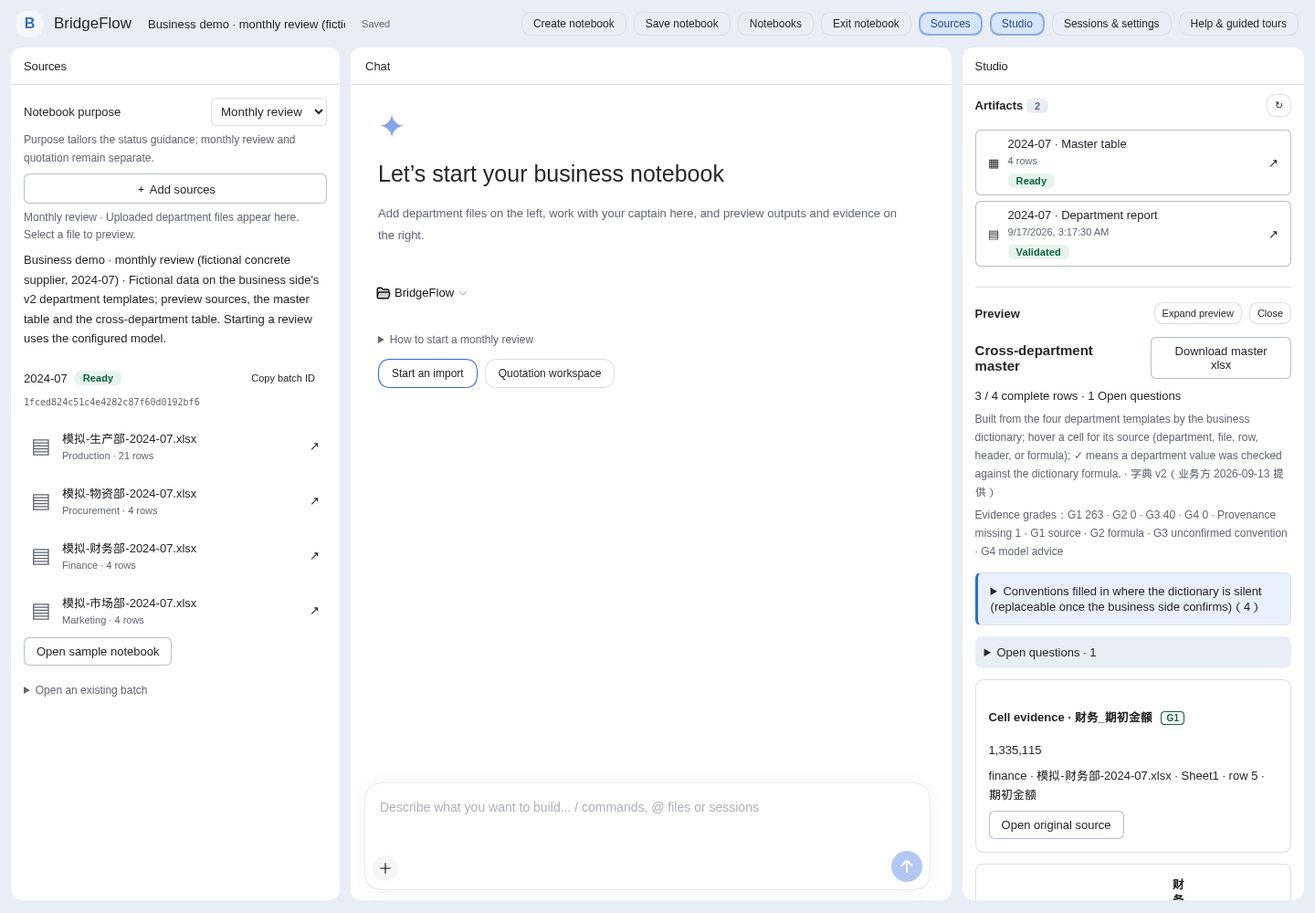
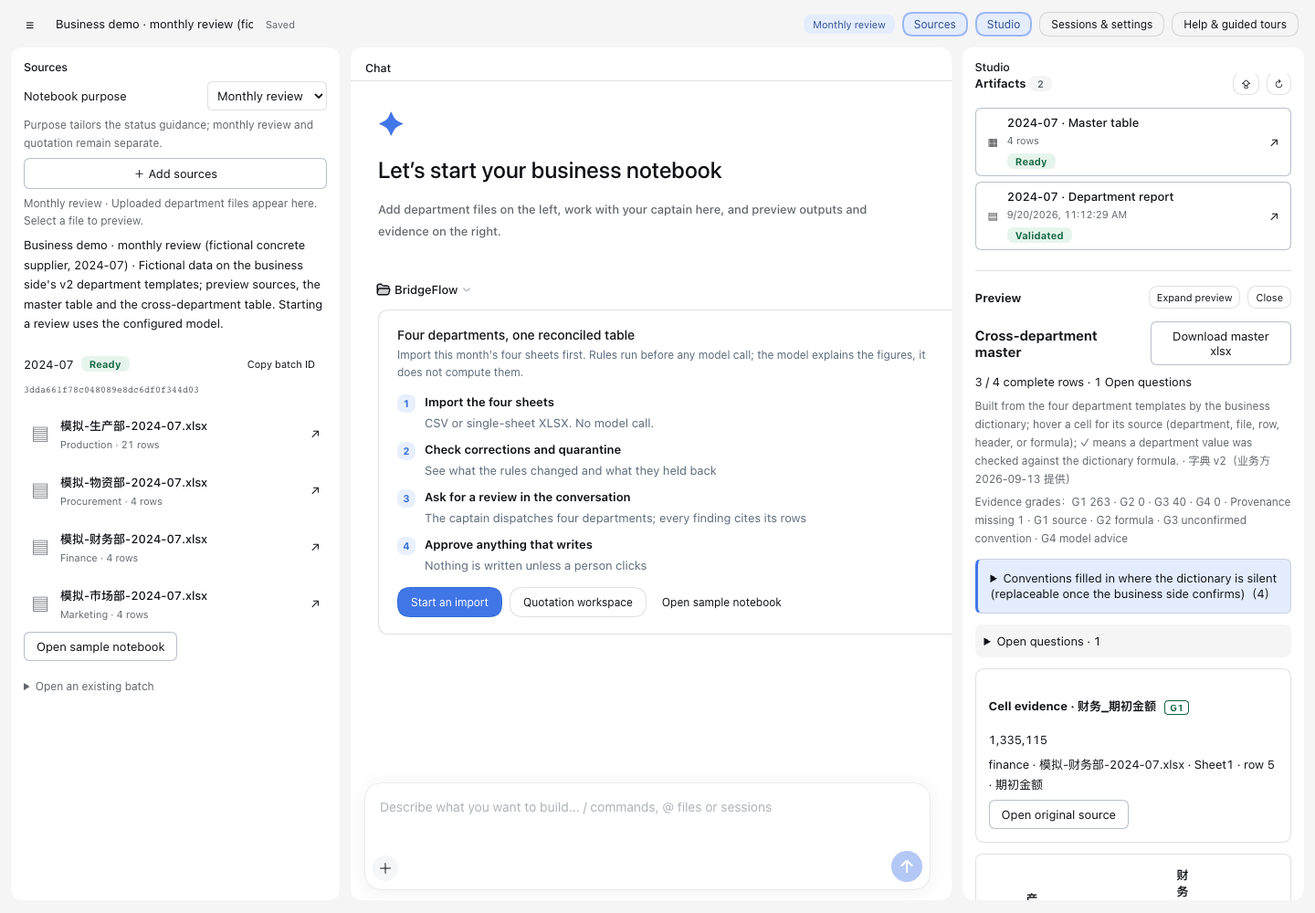
feat: refactor UI components and enhance self-check functionality with improved feedback

diff --git a/plugins/src/client/workspace.tsx b/plugins/src/client/workspace.tsx
@@ -1,17 +1,18 @@
 import { useEffect, useRef, useState, type FormEvent } from 'react'
 import { Failure } from './failure.tsx'
 import { BusinessReview, type Review } from './review.tsx'
-import { api, cellText, columnLabel, navigate, route, reviewRequest, startDiagnosis, startReview, useUI, type Summary } from './ui.ts'
+import { api, cellText, columnLabel, formatNumber, navigate, route, reviewRequest, startDiagnosis, startReview, useUI, type Summary } from './ui.ts'
 export const departments = ['production', 'procurement', 'finance', 'marketing'] as const
 export const sections = ['master', 'corrections', 'mappings', 'columns', 'quarantine', 'review'] as const
 export function Chip({ status }: { status: string }) { const { t } = useUI(); return <span className="bf-chip" data-status={status}>{t(status.replaceAll('-', '_'))}</span> }
-export type Limits = { maxUploadBytes: number; maxRequestBytes: number; noteLimit: number; decisionTimeoutMs: number }
+export type Limits = { maxUploadBytes: number; maxBatchRows: number; maxRequestBytes: number; noteLimit: number; decisionTimeoutMs: number }
 type Finding = { check: string; message: string; row: number | null; column: string; count: number }
 type CheckReport = { department: string; filename: string; must_fix: Finding[]; review: Finding[]; passed: string[]; accepts: boolean }
 export function ImportForm({ onSaved }: { onSaved: (batch: Summary) => void }) {
-  const { t } = useUI()
+  const { t, language } = useUI()
   const [limits, setLimits] = useState<Limits | null>(null)
   const [busy, setBusy] = useState(false), [error, setError] = useState<unknown>(''), [reports, setReports] = useState<CheckReport[]>([])
+  const [checking, setChecking] = useState('')
   const formRef = useRef<HTMLFormElement>(null)
   useEffect(() => { const controller = new AbortController(); void api<Limits>('/config', { signal: controller.signal }).then(setLimits).catch(e => { if (!controller.signal.aborted) setError(e) }); return () => controller.abort() }, [])
   async function selfCheck() {
@@ -20,19 +21,23 @@ export function ImportForm({ onSaved }: { onSaved: (batch: Summary) => void }) {
     setError(''); setReports([])
     if (!form.get('period')) { setError(t('selfCheckNeedsPeriod')); return }
     setBusy(true)
+    let checked = 0
     try {
-      const found: CheckReport[] = []
       for (const name of departments) {
         const file = form.get(name)
         if (!(file instanceof File) || !file.size) continue
         const body = new FormData()
         body.set('period', String(form.get('period'))); body.set('department', name); body.set('file', file)
         body.set('sheet', String(form.get(`${name}-sheet`) ?? '')); body.set('header_row', String(form.get(`${name}-header`) ?? ''))
-        found.push(await api<CheckReport>('/batches/self-check', { method: 'POST', body }))
+        setChecking(name)
+        // Each report lands as it arrives. Collecting them and assigning once meant a
+        // failure on the third file discarded the first two — four files reading as
+        // four failures is exactly what per-department reporting exists to prevent.
+        const report = await api<CheckReport>('/batches/self-check', { method: 'POST', body })
+        checked++; setReports(previous => [...previous, report])
       }
-      if (!found.length) setError(t('invalidUpload'))
-      setReports(found)
-    } catch (e) { setError(e) } finally { setBusy(false) }
+      if (!checked) setError(t('invalidUpload'))
+    } catch (e) { setError(e) } finally { setBusy(false); setChecking('') }
   }
   async function upload(event: FormEvent<HTMLFormElement>) {
     event.preventDefault(); setError('')
@@ -52,30 +57,89 @@ export function ImportForm({ onSaved }: { onSaved: (batch: Summary) => void }) {
     try { onSaved(await api<Summary>('/batches', { method: 'POST', body })) }
     catch (e) { setError(e) } finally { setBusy(false) }
   }
-  return <form ref={formRef} onSubmit={upload} className="bf-steps">
-    <div className="bf-step">
-      <h3>{t('stepMonth')}</h3>
-      <input type="month" name="period" aria-label={t('month')} required />
+  return <>
+    <form ref={formRef} onSubmit={upload} className="bf-steps">
+      <div className="bf-step">
+        <h3>{t('stepMonth')}</h3>
+        <input type="month" name="period" aria-label={t('month')} required />
+      </div>
+      <div className="bf-step">
+        <h3>{t('stepFiles')}</h3>
+        <p className="bf-hint">{t('stepFilesHint')} {t('uploadHelp')}</p>
+        <div className="bf-files">{departments.map(name => <FileRow key={name} name={name} />)}</div>
+      </div>
+      {/* I01 step 3: both ways forward on one row, the limits beside the button that
+          enforces them, and the self-check's own result directly underneath. The check
+          used to sit in step 2, which made "add the files" mean two different jobs. */}
+      <div className="bf-step">
+        <h3>{t('stepGo')}</h3>
+        <p className="bf-hint">{t('stepGoHint')}</p>
+        <Failure value={error}/>
+        <div className="bf-actions" style={{ marginBottom: 0 }}>
+          <button className="bf-primary" disabled={busy || !limits} type="submit">{t(busy ? 'busy' : 'import')}</button>
+          <button type="button" disabled={busy} onClick={() => void selfCheck()}>{t('selfCheck')}</button>
+          <span className="bf-hint">{limits
+            ? `${t('perUpload')} ${limits.maxUploadBytes / 1048576} MiB · ${t('perBatch')} ${formatNumber(limits.maxBatchRows, language)} ${t('rows')}`
+            : t('loading')}</span>
+        </div>
+        <p className="bf-hint" style={{ marginTop: 6 }}>{t('selfCheckHelp')}</p>
+      </div>
+    </form>
+    {/* `checking` is set only by self-check, so a plain import never opens this panel. */}
+    <SelfCheckResult reports={reports} checking={checking} />
+  </>
+}
+
+/**
+ * I03: what the same rules say about these files, without creating a batch.
+ *
+ * Grouped by what the reader has to do about it, not by which file it came from.
+ * "Must fix" and "worth checking" are two different jobs for the person holding the
+ * sheets; four per-department cards left them to do that sort by eye, with the review
+ * items folded behind a `<details>` each.
+ */
+function SelfCheckResult({ reports, checking }: { reports: CheckReport[]; checking: string }) {
+  const { t, language } = useUI()
+  const lines = (pick: (r: CheckReport) => Finding[]) => reports.flatMap(r => pick(r).map(f => ({ department: r.department, f })))
+  const mustFix = lines(r => r.must_fix), review = lines(r => r.review)
+  // Not a partition: a file can carry review items and still be submittable, and saying
+  // so is the difference the two buckets exist to draw. `accepts` is the backend's own
+  // word for "nothing here blocks the import", which is exactly the question.
+  const clean = reports.filter(r => r.accepts)
+  // `count` is the finding's own multiplicity: one "three unknown columns" finding is
+  // three things to look at, and a heading reading "1" would understate the work.
+  const weight = (items: typeof mustFix) => items.reduce((n, l) => n + Math.max(1, l.f.count), 0)
+  const line = ({ department, f }: { department: string; f: Finding }) => [
+    t(department),
+    f.row ? `${t('atRow')} ${f.row}${t('atRowSuffix')}` : '',
+    f.column && !f.message.startsWith(f.column) ? f.column : '',
+    f.message + (f.count > 1 ? ` ×${f.count}` : ''),
+  ].filter(Boolean).join(' · ')
+  if (!reports.length && !checking) return null
+  // One live region for the whole result, not one per bucket: three of them announce
+  // over each other, and the reader needs the three counts together anyway.
+  return <section className="bf-selfcheck" aria-label={t('selfCheckResult')} aria-live="polite">
+    <div className="bf-card-head">
+      <h3>{t('selfCheckResult')}</h3>
+      {/* The one thing a person needs to know before reading a word of it. */}
+      <span className="bf-chip">{t('noBatchCreated')}</span>
     </div>
-    <div className="bf-step">
-      <h3>{t('stepFiles')}</h3>
-      <p className="bf-hint">{t('stepFilesHint')} {t('uploadHelp')}</p>
-      <div className="bf-files">{departments.map(name => <FileRow key={name} name={name} />)}</div>
-      <p className="bf-hint">{t('selfCheckHelp')}</p>
-      <button type="button" disabled={busy} onClick={() => void selfCheck()}>{t('selfCheck')}</button>
-      {reports.map(report => <div key={report.department} className="bf-callout" data-tone={report.accepts ? 'ok' : 'warn'} role="status">
-        <h3>{t(report.department)} · {report.filename} · {report.accepts ? t('selfCheckAccepted') : `${t('selfCheckMustFix')} ${report.must_fix.length}`}</h3>
-        {report.must_fix.length > 0 && <ul>{report.must_fix.map((f, i) => <li key={i}>{f.row ? `row ${f.row} · ` : ''}{f.column && !f.message.startsWith(f.column) ? `${f.column} · ` : ''}{f.message}{f.count > 1 ? ` ×${f.count}` : ''}</li>)}</ul>}
-        {report.review.length > 0 && <details><summary>{t('selfCheckReview')} {report.review.length}</summary><ul>{report.review.map((f, i) => <li key={i}>{f.column ? `${f.column} · ` : ''}{f.message} ×{f.count}</li>)}</ul></details>}
-      </div>)}
-    </div>
-    <div className="bf-step">
-      <h3>{t('stepGo')}</h3>
-      <p className="bf-hint">{t('stepGoHint')} {limits ? `${t('limits')}: ${limits.maxUploadBytes / 1048576} MiB · ${t('transport')}: ${limits.maxRequestBytes / 1048576} MiB` : t('loading')}</p>
-      <Failure value={error}/>
-      <button className="bf-primary" disabled={busy || !limits} type="submit">{t(busy ? 'busy' : 'import')}</button>
-    </div>
-  </form>
+    {mustFix.length > 0 && <div className="bf-callout" data-tone="danger">
+      <h3>{t('selfCheckMustFix')} · {weight(mustFix)}</h3>
+      <ul>{mustFix.map((l, i) => <li key={i}>{line(l)}</li>)}</ul>
+    </div>}
+    {review.length > 0 && <div className="bf-callout" data-tone="warn">
+      <h3>{t('selfCheckReview')} · {weight(review)}</h3>
+      <ul>{review.map((l, i) => <li key={i}>{line(l)}</li>)}</ul>
+    </div>}
+    {/* Counted in files, not findings — which is what the sentence under it says. */}
+    {clean.length > 0 && <div className="bf-callout" data-tone="ok">
+      <h3>{t('selfCheckAccepted')} · {clean.length}</h3>
+      <p>{clean.map(r => t(r.department)).join(language === 'zh' ? '、' : ', ')} {t('selfCheckPassedAll')}</p>
+    </div>}
+    {checking && <p className="bf-hint">{t('selfCheckRunning')} · {t(checking)}</p>}
+    {mustFix.length > 0 && <p className="bf-hint">{t('selfCheckQuarantineHint')}</p>}
+  </section>
 }
 
 /** One department's file, showing what was actually chosen.
@@ -97,10 +161,18 @@ function FileRow({ name }: { name: string }) {
       <span className="bf-file-name">{chosen || t('noFile')}</span>
     </span>
   </label>
-  {/\.xlsx$/i.test(chosen) && <details className="bf-hint">
+  {/* I02, collapsed by default: most workbooks never need it, and the person whose
+      header sits on row 3 is otherwise left editing the file into a shape the system
+      likes. Two placeholder-only inputs said neither what they were nor what they did. */}
+  {/\.xlsx$/i.test(chosen) && <details className="bf-layout">
     <summary>{t('sheetLayout')}</summary>
-    <input name={`${name}-sheet`} aria-label={`${t(name)} · ${t('sheetName')}`} placeholder={t('sheetName')} />
-    <input name={`${name}-header`} type="number" min={1} aria-label={`${t(name)} · ${t('headerRow')}`} placeholder={t('headerRow')} />
+    <div className="bf-field-grid">
+      <label className="bf-field"><span>{t('sheetName')}</span>
+        <input name={`${name}-sheet`} aria-label={`${t(name)} · ${t('sheetName')}`} /></label>
+      <label className="bf-field"><span>{t('headerRow')}</span>
+        <input name={`${name}-header`} type="number" min={1} aria-label={`${t(name)} · ${t('headerRow')}`} /></label>
+    </div>
+    <p className="bf-hint">{t('sheetLayoutHint')}</p>
   </details>}
   </div>
 }
@@ -124,12 +196,15 @@ export function DataWorkspaceButton({ wide }: { wide: boolean }) {
 
 /** Keep the modal in shell.overlay: a collapsed sidebar must never hide a modal that makes the page inert. */
 export function DataWorkspace() {
-  const { t } = useUI(), dialog = useRef<HTMLDialogElement>(null)
+  const { t, language } = useUI(), dialog = useRef<HTMLDialogElement>(null)
   const [batch, setBatch] = useState<Summary | null>(null), [batchId, setBatchId] = useState('')
   const [section, setSection] = useState('master'), [offset, setOffset] = useState(0)
   const [view, setView] = useState<View | null>(null), [review, setReview] = useState<Review | null>(null)
   const [reportId, setReportId] = useState(''), [revision, setRevision] = useState(0)
   const [error, setError] = useState<unknown>(''), [busy, setBusy] = useState(false), [notice, setNotice] = useState('')
+  // Separate from `notice`, which is a transient confirmation. "No model was called"
+  // is a claim about how this batch was produced and belongs on the batch (I04).
+  const [justSaved, setJustSaved] = useState(false)
   const currentBatch = useRef(batch); currentBatch.current = batch
   const pendingBatch = useRef<AbortController | null>(null)
   function selectBatch(id: string, selectedSection = 'master', selectedReport = '') {
@@ -152,7 +227,7 @@ export function DataWorkspace() {
       setSection(sections.includes(value.view as typeof sections[number]) ? value.view! : 'master'); setOffset(0)
       setError('')
       if (currentBatch.current?.batch_id === value.batch) return
-      setNotice(''); setBatch(null); setView(null); setReview(null); setBusy(true)
+      setNotice(''); setJustSaved(false); setBatch(null); setView(null); setReview(null); setBusy(true)
       void api<Summary>(`/batches/${value.batch}`, { signal }).then(result => { if (!signal.aborted) setBatch(result) }).catch(e => { if (!signal.aborted) setError(e) }).finally(() => { if (!signal.aborted) setBusy(false) })
     }
     const open = () => { if (!dialog.current?.open) dialog.current?.showModal() }
@@ -171,8 +246,12 @@ export function DataWorkspace() {
   }, [batch, section, offset, reportId, revision])
   async function copy(text: string, message: string) { try { await navigator.clipboard.writeText(text); setNotice(message) } catch (e) { setError(e) } }
   const columns = Array.from(new Set(view?.rows.flatMap(row => Object.keys(row)) ?? []))
+  const totals = {
+    corrections: batch?.departments.reduce((n, d) => n + d.corrections, 0) ?? 0,
+    quarantined: batch?.departments.reduce((n, d) => n + d.quarantined, 0) ?? 0,
+  }
   const counts: Record<string, number | string> = batch ? { master: batch.master_rows, mappings: batch.unresolved,
-    corrections: batch.departments.reduce((n, d) => n + d.corrections, 0), columns: batch.column_questions ?? 0, quarantine: batch.departments.reduce((n, d) => n + d.quarantined, 0), review: review ? `${review.roles.filter(r => r.status === 'validated').length}/4` : '—' } : {}
+    corrections: totals.corrections, columns: batch.column_questions ?? 0, quarantine: totals.quarantined, review: review ? `${review.roles.filter(r => r.status === 'validated').length}/4` : '—' } : {}
   function tab(key: string) { setSection(key); setOffset(0); if (batch) navigate({ batch: batch.batch_id, view: key, ...(key === 'review' && reportId ? { report: reportId } : {}) }) }
   return <>
     <dialog className="bf-panel" ref={dialog} onCancel={close} aria-label={t('workspace')}>
@@ -187,15 +266,19 @@ export function DataWorkspace() {
         <button className="bf-quiet" onClick={close}>{t('close')}</button>
       </header>
       <div className="bf-panel-body">
-      <details open={!batch}><summary>{t('newBatch')}</summary><ImportForm onSaved={result => { pendingBatch.current?.abort(); setReportId(''); setView(null); setReview(null); currentBatch.current = result; setBatch(result); setBatchId(result.batch_id); setOffset(0); setSection('master'); setNotice(t('saved')); selectBatch(result.batch_id) }} /></details>
+      <details open={!batch}><summary>{t('newBatch')}</summary><ImportForm onSaved={result => { pendingBatch.current?.abort(); setReportId(''); setView(null); setReview(null); currentBatch.current = result; setBatch(result); setBatchId(result.batch_id); setOffset(0); setSection('master'); setNotice(''); setJustSaved(true); selectBatch(result.batch_id) }} /></details>
       <details><summary>{t('existing')}</summary><label>{t('batchId')} <input value={batchId} onChange={e => setBatchId(e.target.value)} /></label>
         <button disabled={busy || !/^[a-f0-9]{32}$/.test(batchId)} onClick={() => selectBatch(batchId)}>{t('open')}</button></details>
       <p role="status">{notice}</p><Failure value={error}/>
       {batch && <section>
+        {/* I04: the first thing said after an import finishes is what the rules did and
+            did not do. As a one-line `role=status` it was gone before it was read. */}
+        {justSaved && <div className="bf-callout" data-tone="ok">
+          <h3>{t('batchSaved')}</h3><p>{t('rulesOnly')}</p>
+        </div>}
         <div className="bf-band">
           <span className="bf-period">{batch.period}</span> <Chip status={batch.status} />
         </div>
-        <p className="bf-hint" style={{ margin: 0 }}>{t('master')} {batch.master_rows} {t('rows')} · {t('mappings')} {batch.unresolved}{t('countSuffix')}</p>
 
         {/* A status is only actionable next to the step it implies. */}
         {NEXT_STEP[batch.status] && <div className="bf-callout" data-tone={NEXT_TONE[batch.status] ?? 'info'}>
@@ -244,9 +327,14 @@ export function DataWorkspace() {
         </div>}
 
         {batch.derived_from && <p className="bf-hint">{t('derivedFrom')}: <code className="bf-mono">{batch.derived_from}</code></p>}
-        <div className="bf-stats">{batch.departments.map(d => <div className="bf-stat" key={d.department}>
-          <b>{d.rows}</b><span>{t(d.department)} · {d.corrections} {t('corrections')} / {d.quarantined} {t('quarantine')}</span>
-        </div>)}</div>
+        {/* I04 per department, "because one failed file should not read as four". The
+            batch totals are deliberately not repeated here: the tabs below already carry
+            every one of them, next to the rows they count. */}
+        <dl className="bf-metrics">{batch.departments.map(d => <div className="bf-metric" key={d.department}>
+          <dt>{t(d.department)}</dt>
+          <dd><b>{formatNumber(d.rows, language)}</b> <small>{t('rows')}</small>
+            <small className="bf-metric-note">{d.corrections} {t('corrections')} · {d.quarantined} {t('quarantine')}</small></dd>
+        </div>)}</dl>
 
         <div className="bf-actions">
           {/* One button, doing the thing. Copy stays as the escape hatch for a

diff --git a/plugins/src/client/ui.ts b/plugins/src/client/ui.ts
@@ -175,11 +175,17 @@ const labels = {
   files: ['部门文件', 'Department files'], submitted: ['意见已提交到队长会话', 'Note submitted to captain session'], audit: ['当前会话审计', 'Current session audit'], loadedWindow: ['仅统计已加载的会话事件，可加载更早记录。', 'Counts cover loaded events only; older events may be loaded.'], loadOlder: ['加载更早记录', 'Load older events'], stateHelp: ['图为静态规则；高亮与计数来自当前批次和原生会话记录。点击节点筛选，下方可打开原始视图。', 'The diagram shows fixed rules. Highlights and counts come from the selected batch and native session records. Select a node to filter, then open its source view.'],
   data: ['导入与数据', 'Import & data'], workspace: ['BridgeFlow 数据工作区', 'BridgeFlow data workspace'], close: ['关闭', 'Close'],
   title: ['批次数据与业务研判', 'Batch data & business review'], intro: ['把四部门数据放在一起', 'Bring four departments together'],
-  newBatch: ['导入新批次', 'Import a new batch'], uploadHelp: ['CSV 或 XLSX；多工作表或表头不在第 1 行时，按提示填写表格位置。每次导入保留独立批次。', 'CSV or XLSX; for several sheets or a header below row 1, fill in the table position when asked. Each import keeps an independent batch.'],
+  newBatch: ['导入新批次', 'Import a new batch'], uploadHelp: ['CSV 或 XLSX。', 'CSV or XLSX.'],
   sheetLayout: ['表格位置（可选）', 'Table position (optional)'], sheetName: ['工作表名', 'Sheet name'], headerRow: ['表头行号', 'Header row'],
+  // I02: the block stays collapsed because most files never need it, and the people who
+  // do need it are otherwise left editing their file into a shape the system likes.
+  sheetLayoutHint: ['表头行号以上的行不进入数据；留空按第 1 行读。改动只影响这一次导入。', 'Rows above the header row are excluded from the data; blank reads row 1. The setting affects this import only.'],
   month: ['业务月份', 'Business month'], production: ['生产', 'Production'], procurement: ['采购', 'Procurement'], finance: ['财务', 'Finance'], marketing: ['市场', 'Marketing'],
   import: ['导入并检查', 'Import & check'], busy: ['正在处理…', 'Processing…'], loading: ['正在加载…', 'Loading…'],
-  saved: ['批次已保存。清洗和聚合由规则执行，未调用模型。', 'Batch saved. Rules cleaned and aggregated the data; no model call.'],
+  // I04's first sentence after an import finishes says what the rules did and did not do.
+  // It was a transient status line, which is the one place a claim like this cannot be read.
+  batchSaved: ['批次已保存', 'Batch saved'],
+  rulesOnly: ['清洗和聚合由规则执行，未调用模型。', 'Rules cleaned and aggregated the data; no model call.'],
   existing: ['打开已有批次', 'Open an existing batch'], batchId: ['批次编号', 'Batch ID'], open: ['打开', 'Open'], copyId: ['复制批次编号', 'Copy batch ID'], copied: ['已复制', 'Copied'],
   startReview: ['发起研判', 'Start the review'],
   startReviewHint: ['直接把研判请求发到当前会话，不用复制粘贴。没有会话就新建一个。',
@@ -207,7 +213,7 @@ const labels = {
   optionalReason: ['拒绝理由（可选，最多 240 字符）', 'Rejection reason (optional, up to 240 characters)'], noteHelp: ['批准才写映射；拒绝不写入，以后仍可能询问。', 'Only approval writes the mapping. Rejection writes nothing; later imports may ask again.'],
   noteFail: ['理由未保存，尚未提交决定。重试或清空理由后拒绝。', 'Reason was not saved; no decision submitted. Retry or clear it to reject.'], expired: ['审批已结束或备注通道不可用', 'Approval ended or notes unavailable'],
   timeout: ['审批期限', 'Approval deadline'], seconds: ['秒', 'seconds'], inspect: ['查看调用轨迹', 'Inspect native trace'], details: ['查看摘要', 'Show summary'], failed: ['失败 / 已拒绝', 'Failed / rejected'], completed: ['已完成', 'Completed'],
-  limits: ['文件上限', 'File limit'], transport: ['请求上限', 'Request limit'], invalidUpload: ['请选择至少一个 CSV/XLSX，文件总大小不得超过上限。', 'Select at least one CSV/XLSX; total size must fit the limit.'],
+  invalidUpload: ['请选择至少一个 CSV/XLSX，文件总大小不得超过上限。', 'Select at least one CSV/XLSX; total size must fit the limit.'],
   // --- orientation on a blank session ---------------------------------------
   // A judge or an operator opening this sees the host's own "explore the unknown"
   // hero, which says nothing about what this product does or what to do first.
@@ -266,7 +272,20 @@ const labels = {
   selfCheck: ['先自检', 'Check first'], selfCheckHelp: ['用与正式导入相同的规则检查所选文件，不创建批次。', 'Checks the chosen files with the same rules as import, without creating a batch.'],
   selfCheckMustFix: ['必须修改', 'Must fix'], selfCheckReview: ['建议核对', 'Review'], selfCheckAccepted: ['可以提交', 'Ready to submit'],
   selfCheckNeedsPeriod: ['请先选择业务月份。', 'Choose the business month first.'],
-  stepGoHint: ['导入不调用模型，也不覆盖已有批次。', 'Import makes no model call and never overwrites an existing batch.'],
+  // I03 groups by severity, not by department: "must fix" and "worth checking" are two
+  // different jobs for the person holding the files, and four per-department cards left
+  // that sort to the reader.
+  selfCheckResult: ['自检结果', 'Self-check result'], noBatchCreated: ['未创建批次', 'No batch created'],
+  // Trails a list of departments, so the English cannot use a verb: "Finance pass" and
+  // "Finance and Marketing passes" are each wrong for the other count.
+  selfCheckPassedAll: ['通过全部声明检查。', '— no declared check failed.'],
+  selfCheckQuarantineHint: ['「必须修改」项在导入时会被隔离，不会进入计算。', 'Must-fix items are quarantined at import and never reach the arithmetic.'],
+  selfCheckRunning: ['正在自检', 'Checking'],
+  atRow: ['第', 'row'], atRowSuffix: [' 行', ''],
+  stepGoHint: ['导入不调用模型，也不覆盖已有批次。每次导入保留独立批次。', 'Import makes no model call, never overwrites an existing batch, and each import keeps its own.'],
+  // The two caps a person can actually hit, in the units they think in, beside the button
+  // that enforces them (design 03-intake lead).
+  perUpload: ['单次上传', 'per upload'], perBatch: ['单批次', 'per batch'],
   chooseFile: ['选择文件', 'Choose a file'],
   noFile: ['尚未选择', 'None selected'],
   batchIdShort: ['批次', 'Batch'],
@@ -287,7 +306,6 @@ const labels = {
   arg_relation: ['关系', 'Relation'], arg_accepted: ['决定', 'Decision'],
   arg_evidence: ['决定时展示的依据', 'Evidence shown when deciding'], arg_period: ['业务期间', 'Period'],
   acceptMapping: ['接受映射', 'Accept mapping'], rejectMapping: ['拒绝映射', 'Reject mapping'],
-  countSuffix: [' 条', ''],
 } as const
 /** Language outside React: slot labels are callbacks, not components. */
 export function currentLanguage(): 'zh' | 'en' { return current() }

diff --git a/plugins/src/client/style.ts b/plugins/src/client/style.ts
@@ -160,6 +160,9 @@ a.bf-linkbtn {
   display: grid; place-items: center;
 }
 .bf-step > h3 { margin: 2px 0 8px }
+/* A month is six characters. Stretched to the panel width it reads as the widest and
+   therefore most important field on a screen whose point is the four files below it. */
+.bf-step input[type=month] { max-width: 200px }
 
 /* A file row that shows the chosen filename instead of the browser's own English
    "No file chosen", which is the single most out-of-place string in the product. */
@@ -176,6 +179,29 @@ a.bf-linkbtn {
 .bf-file-name { display: block; font-size: 12px; color: var(--bf-muted); overflow: hidden; text-overflow: ellipsis; white-space: nowrap }
 .bf-file[data-filled=true] .bf-file-name { color: var(--bf-ok) }
 .bf-file:focus-within { outline: 2px solid var(--bf-accent); outline-offset: 2px }
+
+/* The per-file table position (03-intake I02). Collapsed, and when open it reads as two
+   named fields with a sentence explaining what the header row does to the rows above it
+   — not two bare boxes whose only label was a placeholder that vanishes on typing. */
+.bf-layout > summary { cursor: pointer; font-size: 12px; color: var(--bf-muted); padding: 5px 2px }
+.bf-layout > summary:hover { color: var(--bf-text) }
+.bf-layout[open] > summary { margin-bottom: 6px }
+/* 120px, not 150: this grid sits inside one file's column of the .bf-files grid, and at
+   150 the two fields stacked in a cell wide enough to hold them side by side. */
+.bf-field-grid { display: grid; gap: 10px; grid-template-columns: repeat(auto-fit, minmax(min(100%, 120px), 1fr)) }
+.bf-field-grid input { width: 100%; box-sizing: border-box }
+.bf-layout .bf-hint { margin: 7px 0 2px }
+
+/* ---- the self-check result (03-intake I03) ------------------------------ */
+
+/* Grouped by what has to be done about it, so the three headings are the three jobs.
+   The callout rules already carry the tones; this only gives the findings a readable list. */
+.bf-selfcheck { margin: 18px 0 0 }
+.bf-selfcheck .bf-card-head { margin-bottom: 2px }
+.bf-selfcheck .bf-callout ul { margin: 6px 0 0; padding-left: 17px }
+.bf-selfcheck .bf-callout li, .bf-selfcheck .bf-callout p { font-size: 13px; line-height: 1.6; margin: 3px 0 }
+.bf-selfcheck > .bf-hint { margin: 8px 0 0 }
+
 
 /* ---- callouts: a state and what to do about it -------------------------- */
 
@@ -206,10 +232,17 @@ a.bf-linkbtn {
 
 .bf-band { display: flex; align-items: baseline; gap: 10px; flex-wrap: wrap; margin: 0 0 2px }
 .bf-band .bf-period { font-size: 22px; font-weight: 660; letter-spacing: -.02em }
-.bf-stats { display: flex; gap: 20px; flex-wrap: wrap; margin: 14px 0 }
-.bf-stat { min-width: 74px }
-.bf-stat b { display: block; font-size: 21px; font-weight: 640; line-height: 1.2 }
-.bf-stat span { font-size: 12px; color: var(--bf-muted) }
+/* The per-department breakdown, as I04's metric cards. The loose figure-over-caption
+   strip this replaces ran the department name, its corrections and its quarantined rows
+   together on one 12px line, so the only part you could read at a glance was a row count
+   with nothing beside it saying whose. */
+.bf-metrics { display: grid; gap: 10px; grid-template-columns: repeat(auto-fit, minmax(min(100%, 150px), 1fr)); margin: 16px 0 0; padding: 0 }
+.bf-metric { background: var(--bf-surface-2); border-radius: var(--bf-radius); padding: 10px 13px }
+.bf-metric dt { font-size: 12px; color: var(--bf-muted) }
+.bf-metric dd { margin: 3px 0 0 }
+.bf-metric dd b { font-size: 19px; font-weight: 640; letter-spacing: -.01em }
+.bf-metric dd small { font-size: 11px; color: var(--bf-muted); margin-left: 3px }
+.bf-metric dd small.bf-metric-note { display: block; margin: 3px 0 0 }
 
 /* ---- tabs -------------------------------------------------------------- */
 

diff --git a/plugins/src/web.ts b/plugins/src/web.ts
@@ -80,6 +80,11 @@ export function mountWeb(ctx: Context, backend: BackendConfig, notes: ApprovalNo
             workspaceId: workspace.id,
             portalUrl: process.env.PORTAL_BASE_URL ?? '',
             maxUploadBytes: Math.min(Number(process.env.BRIDGEFLOW_MAX_UPLOAD_BYTES) || 25 * 1024 * 1024, 25 * 1024 * 1024),
+            // The row cap belongs beside the import button, not inside the error you get
+            // for exceeding it (design 03-intake). Same env var and same default as
+            // `bridgeflow_max_batch_rows` in backend/src/bridgeflow/config.py, so the two
+            // stay in step: pydantic-settings reads that field from this exact name.
+            maxBatchRows: Number(process.env.BRIDGEFLOW_MAX_BATCH_ROWS) || 200_000,
             maxRequestBytes: 26 * 1024 * 1024, noteLimit: 240, decisionTimeoutMs,
           }))
           return
